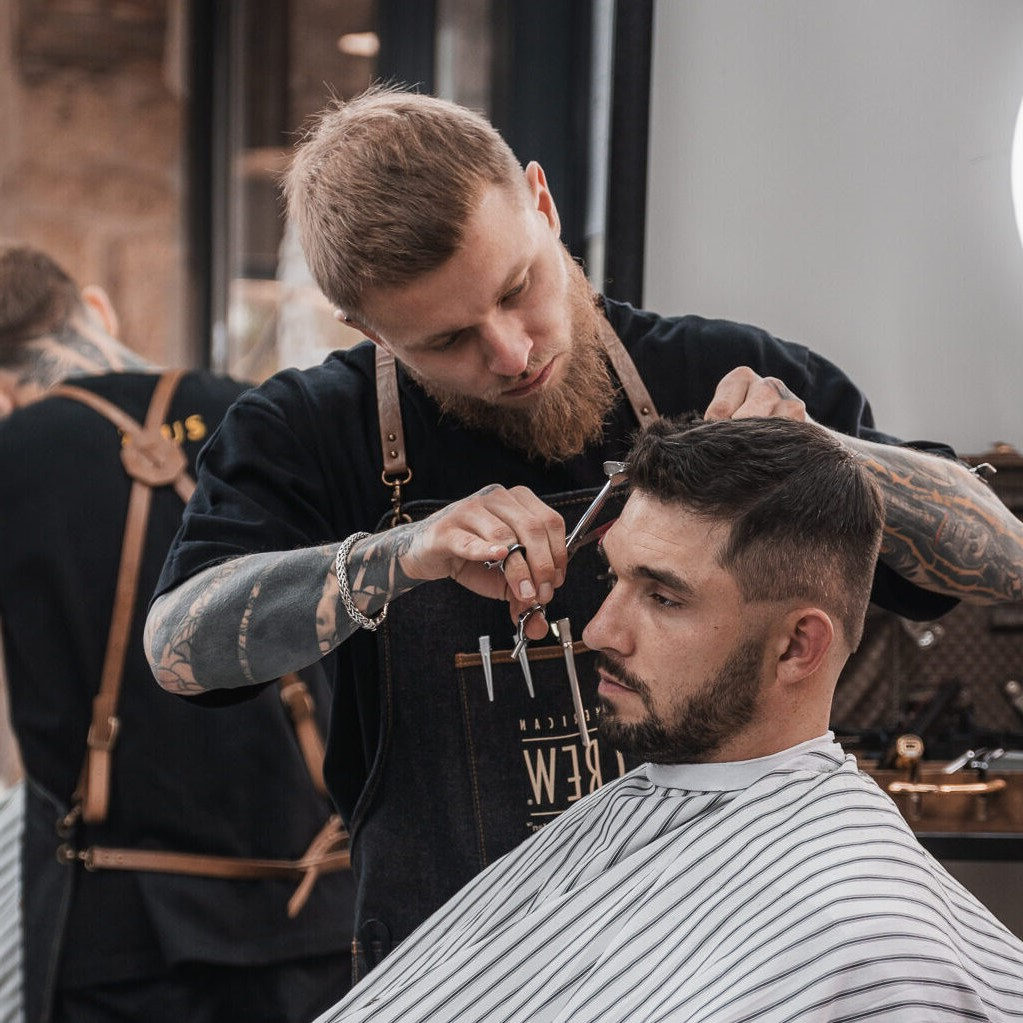
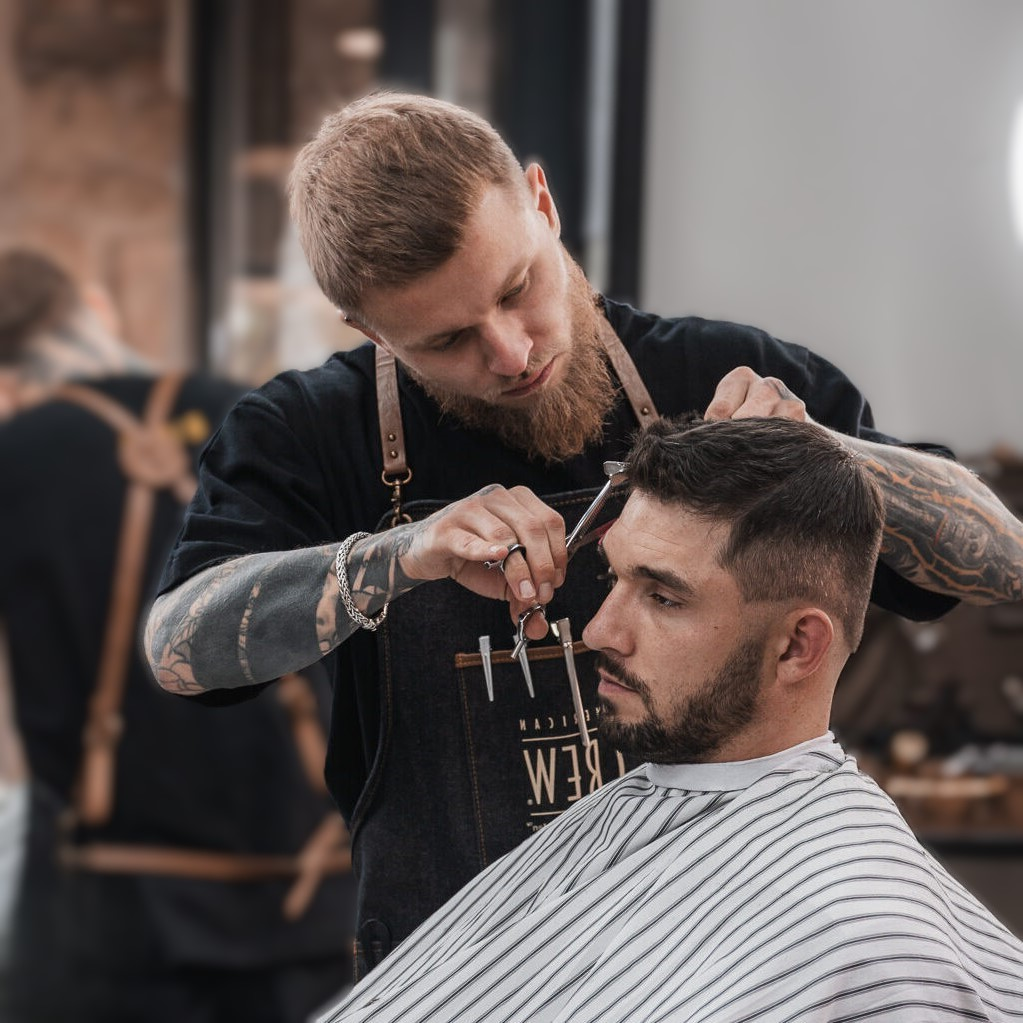
Change main picture in the home page

diff --git a/src/components/Home/Home.jsx b/src/components/Home/Home.jsx
@@ -33,7 +33,7 @@ export default function Home() {
                     </div>
                     <div className="col-sm-12 col-md-6 d-none d-md-block">
                         <div className="hero-image">
-                            <img src="img/ivan_workz.png" alt="Hero Image" />
+                            <img src="img/ivan_working.png" alt="Hero Image" />
                         </div>
                     </div>
                 </div>
